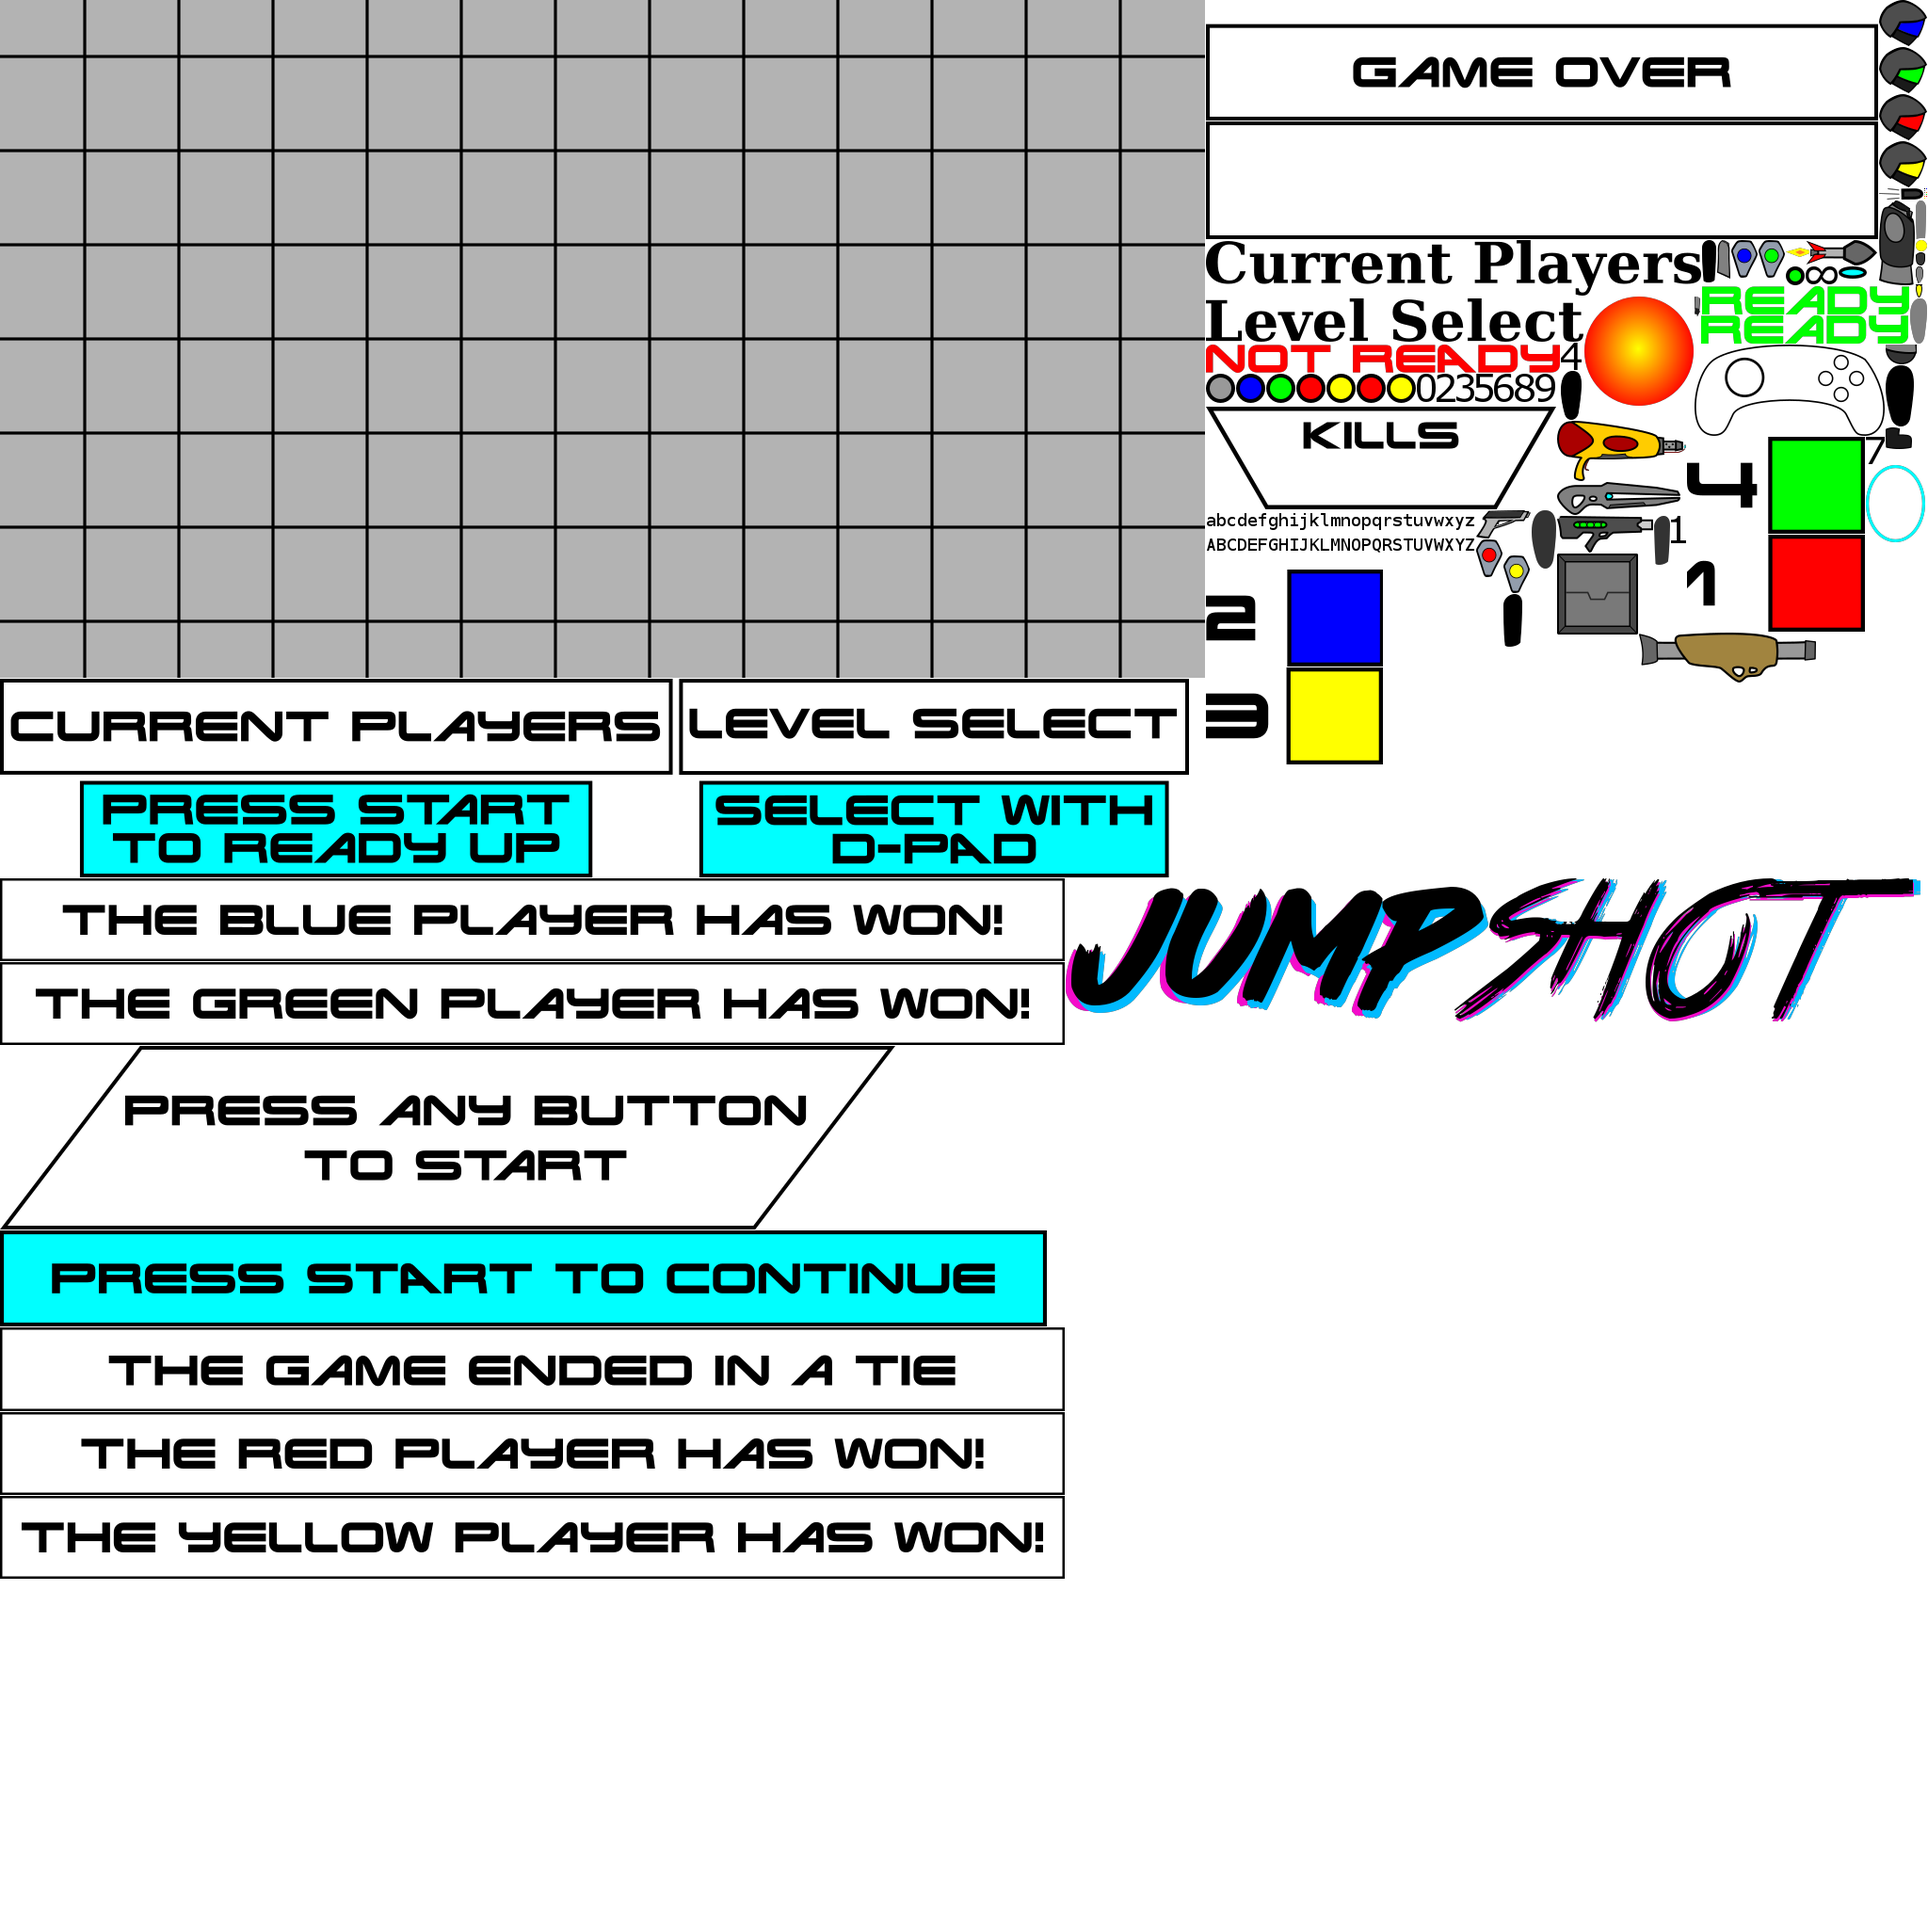
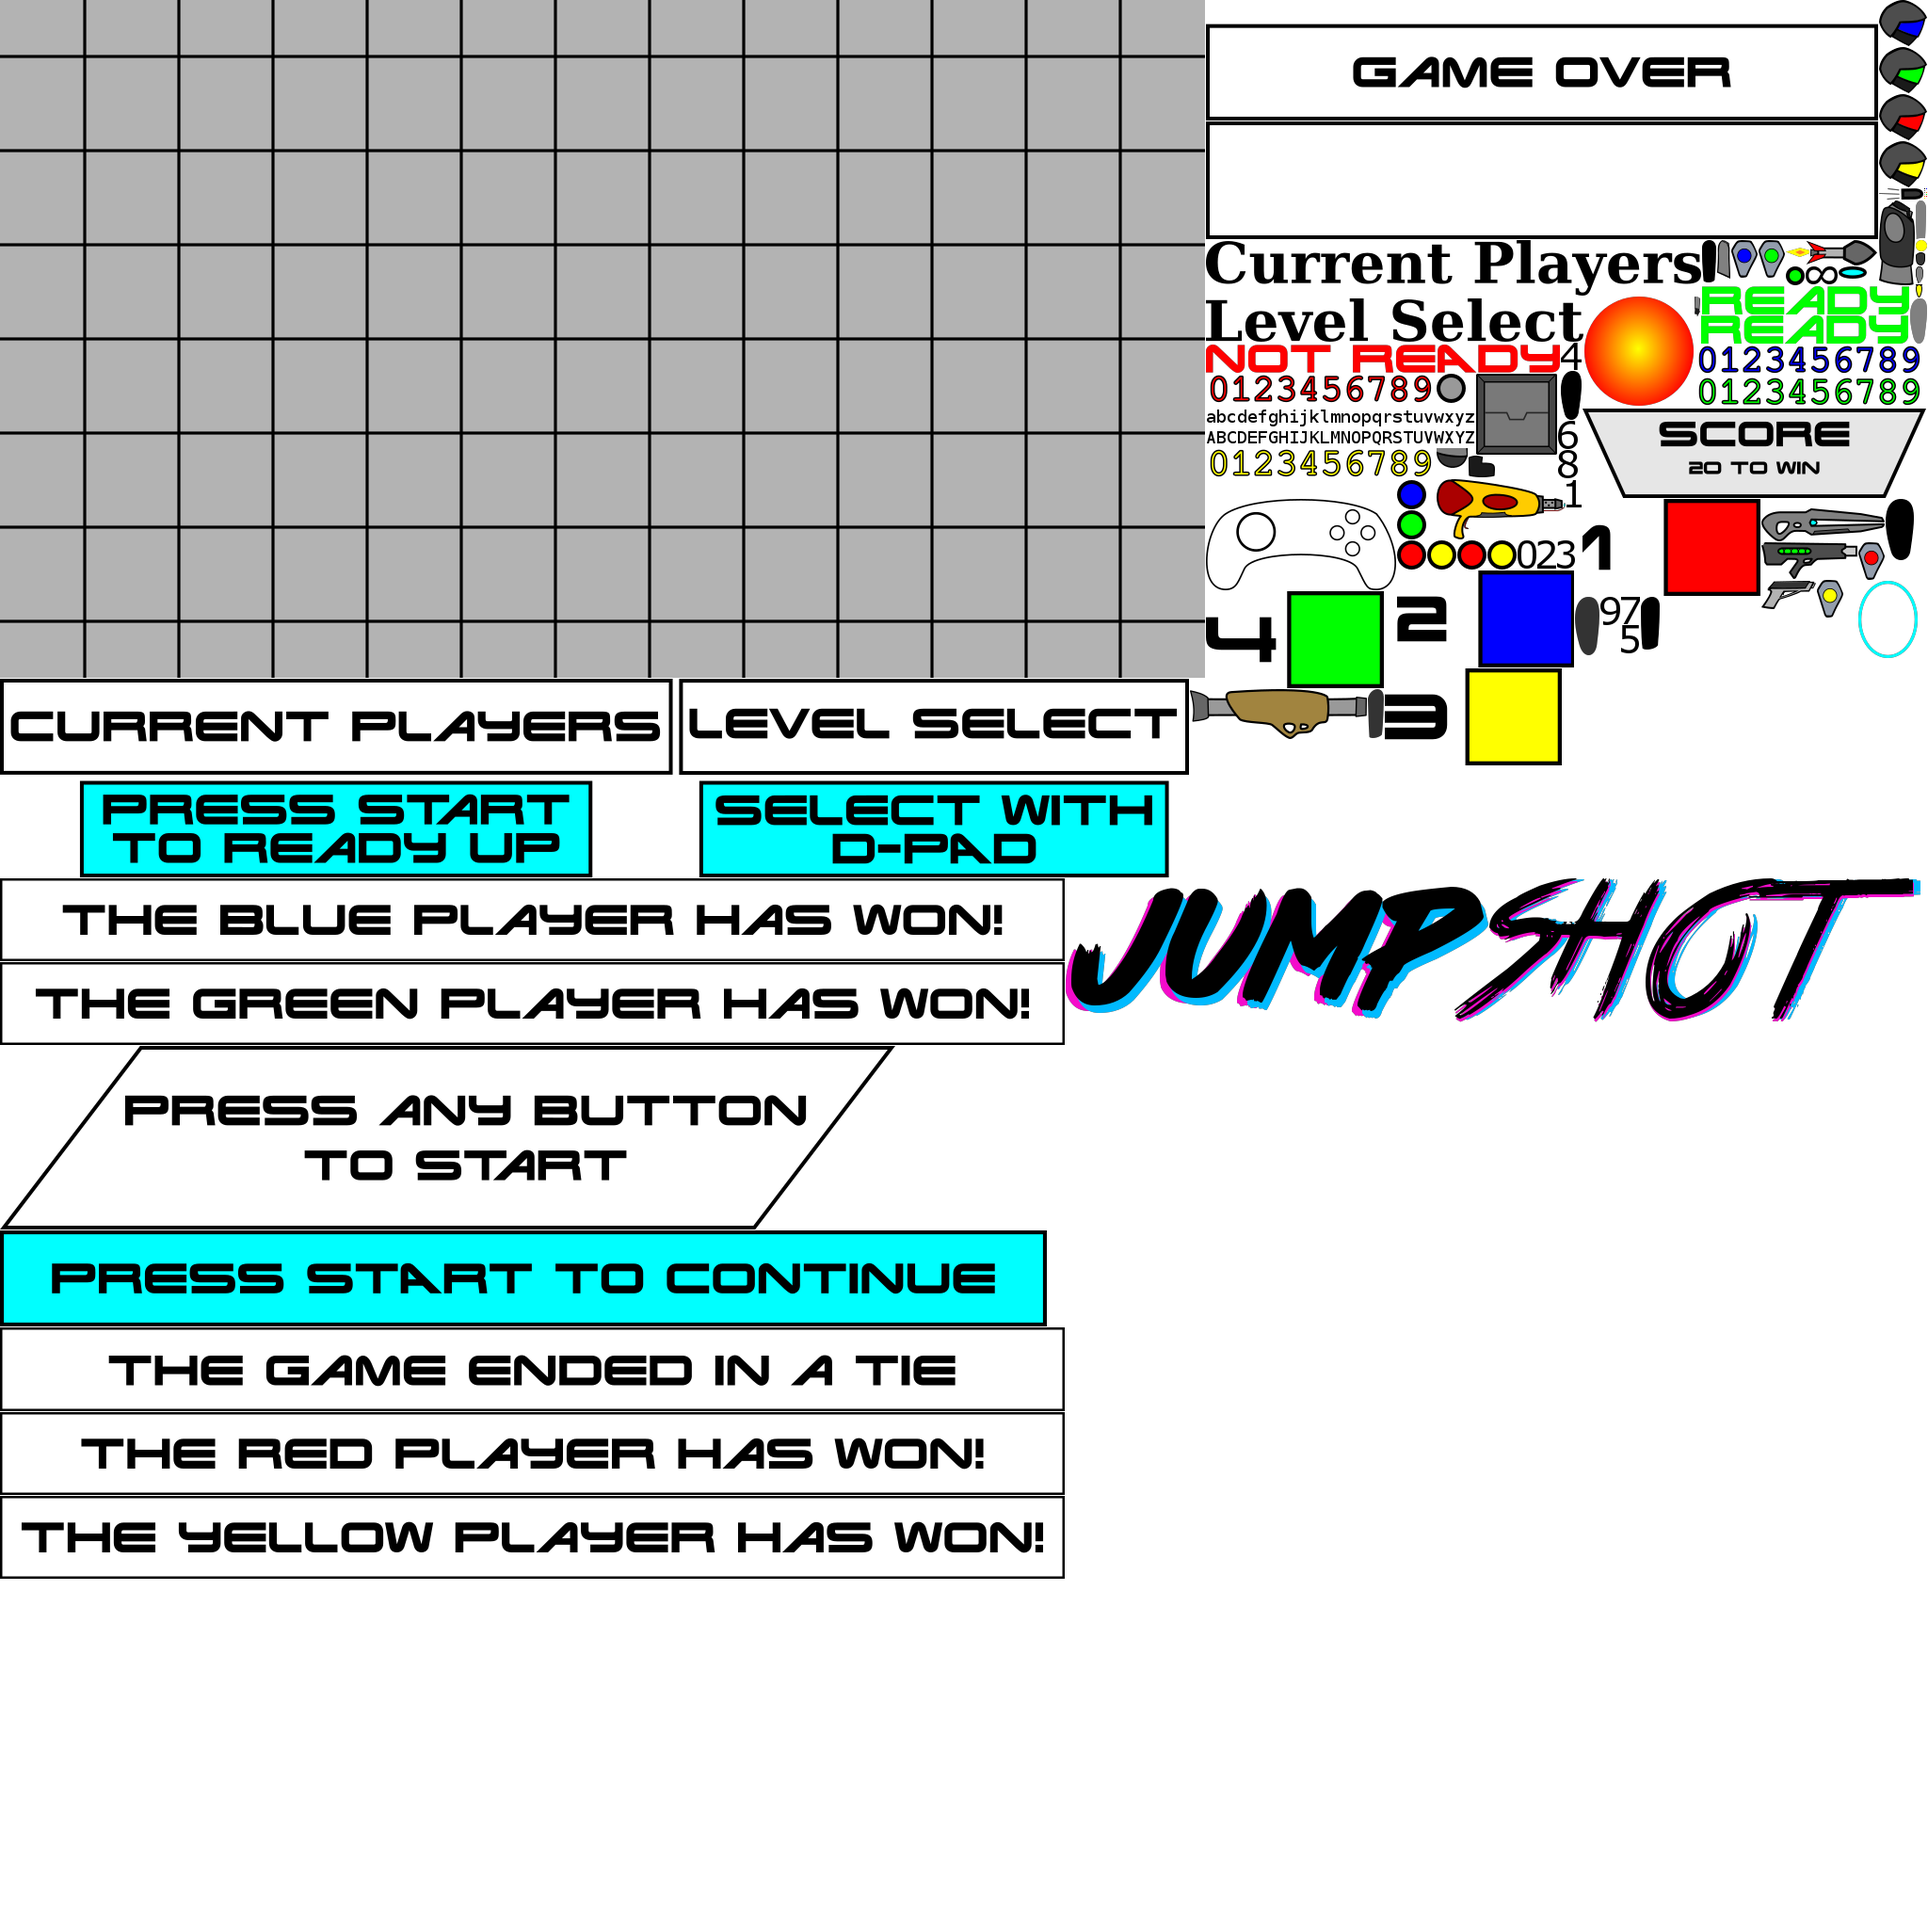
Switch to scores

Changed region(s): [[0.5938, 0.1562, 1.0, 0.4062]]

diff --git a/src/gamescreen.cpp b/src/gamescreen.cpp
@@ -18,7 +18,7 @@
 #define WALL_GRACE 5
 #define GROUND_GRACE 5
 
-const int KILLS_TO_WIN = 5;
+const int SCORE_TO_WIN = 25;
 
 const int FIRE_LENGTH = 200;
 
@@ -72,18 +72,18 @@ void GameScreen::render(RenderList& list) const {
     list.push();
     list.set_z(100);
 
-    Rectangle kill_board_rect = list.get_image_dimensions("kill-board");
-    kill_board_rect = kill_board_rect.offset(1280/2, kill_board_rect.height/2);
-    list.add_rect("kill-board", kill_board_rect);
+    Rectangle score_board_rect = list.get_image_dimensions("score-board");
+    score_board_rect = score_board_rect.offset(1280/2, score_board_rect.height/2);
+    list.add_rect("score-board", score_board_rect);
 
     for (const auto& player : players) {
         int x = 0;
         int y = 0;
-        const int top_row_offset = 120;
-        const int top_row_y = 30;
+        const int top_row_offset = 127;
+        const int top_row_y = 28;
 
-        const int bottom_row_offset = 90;
-        const int bottom_row_y = 80;
+        const int bottom_row_offset = 100;
+        const int bottom_row_y = 65;
 
         switch (player.info.color) {
             case PlayerColor::RED:
@@ -111,21 +111,14 @@ void GameScreen::render(RenderList& list) const {
                 exit(-1);
         }
 
-        Rectangle counter_rect(x, y, 40, 44);
-
-        list.add_rect(get_color_name(player.info.color), counter_rect);
-        list.add_outline("black", counter_rect);
-
-        std::string number = std::to_string(player.state.kills);
-        Rectangle column_number_text = list.get_image_dimensions(number);
-        list.add_rect(number, column_number_text.offset(x, y));
+        list.add_red_numbers(get_color_name(player.info.color), player.state.score, x, y);
     }
 
     if (game_over) {
         std::string winning_color = "";
 
         for (const auto& player: players) {
-            if (player.state.kills == KILLS_TO_WIN) {
+            if (player.state.score == SCORE_TO_WIN) {
                 if (winning_color == "") {
                     winning_color = get_color_name(player.info.color);
                 } else {
@@ -714,14 +707,13 @@ void GameScreen::damage_player(int player_index, double damage, int shooter_inde
 
         auto& shooter = players[shooter_index];
 
-        if (shooter_index == player_index) {
-            // why are you killing yourself?
-            player.state.kills = std::max(0, player.state.kills - 1);
-        } else {
-            shooter.state.kills++;
+        if (shooter_index != player_index) {
+            shooter.state.score += 2;
         }
 
-        if (shooter.state.kills == KILLS_TO_WIN) {
+        player.state.score = std::max(0, player.state.score - 1);
+
+        if (shooter.state.score == SCORE_TO_WIN) {
             game_over = true;
         } else {
             player.state.ticks_until_spawn = 130;

diff --git a/src/renderlist.cpp b/src/renderlist.cpp
@@ -135,6 +135,28 @@ void RenderList::add_text(const std::string& text, float x, float y) {
     }
 }
 
+void RenderList::add_red_numbers(const std::string& color, int num, float center_x, float center_y) {
+    std::string num_text = std::to_string(num);
+
+    std::string numbers = "0123456789";
+
+    const int advance = 24;
+    const int height = 33;
+
+    const int visual_advance = 21;
+
+    float y = center_y - height / 2.0;
+    float x = center_x - visual_advance * num_text.size() / 2.0;
+
+    for (unsigned int i = 0; i < num_text.size(); i++) {
+        char current_char = num_text[i];
+        int offset = numbers.find(current_char);
+
+        add_image_core(color + "-numbers", x, y, advance, height, offset * advance, 0, advance, height);
+        x += visual_advance;
+    }
+}
+
 void RenderList::add_image_core(const std::string &name, float x, float y, float width, float height) {
     if (!metadata.HasMember(name.c_str())) {
         std::cerr<<"Could not find image \"" << name << "\"" << std::endl;

diff --git a/src/player.cpp b/src/player.cpp
@@ -229,10 +229,10 @@ void Player::render(RenderList& list) const {
     list.add_image("orange", -18, -60, 36 * health / MAX_HEALTH, 4);
     list.add_image(get_color_name(info.color), -18, -60, 36 * eventual_health / MAX_HEALTH, 4);
 
-    for (int i = 0; i < state.kills; i++) {
-        Rectangle life_box(-15 + i * 10, -67, 8, 8);
-        list.add_rect("life-" + get_color_name(info.color), life_box);
-    }
+    // for (int i = 0; i < state.kills; i++) {
+    //     Rectangle life_box(-15 + i * 10, -67, 8, 8);
+    //     list.add_rect("life-" + get_color_name(info.color), life_box);
+    // }
 
     if (state.is_dead) {
         double angle = M_PI / 2.0 * (1.0 - ((state.ticks_until_spawn - DEATH_INVISIBLE_TIME) / (float)DEATH_ANIMATION_TIME));

diff --git a/src/player.h b/src/player.h
@@ -75,7 +75,7 @@ struct PlayerState {
     double dy = 0;
 
     double health = MAX_HEALTH;
-    int kills = 0;
+    int score = 0;
 
     int ticks_till_next_bullet = 0;
     int ticks_left_jumping = 0;

diff --git a/src/renderlist.h b/src/renderlist.h
@@ -67,6 +67,9 @@ public:
 	void pop();
 
 	void set_z(float z_value);
+
+
+	void add_red_numbers(const std::string& color, int num, float x, float y);
 private:
 
 	struct RenderState {
